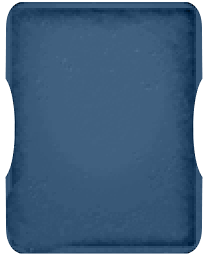
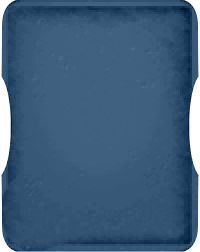
data: fix background images for flush fit on 200x252 card

Changed region(s): [[0.0, 0.0, 1.0, 1.0]]

diff --git a/data/src/card/card.js b/data/src/card/card.js
@@ -3,18 +3,16 @@ import Jimp from 'jimp';
 import { game_dir, TRIBE } from '../constants.js';
 
 export async function create(params) {
-  const card_image = await Jimp.read(card_image_path(params.id));
-
   // start with fresh image with correct dimensions
-  const image = new Jimp(card_image.getWidth(), card_image.getHeight(), 'transparent');
+  const image = new Jimp(width, height, 'transparent');
 
   if (params.background) {
     image.composite(IMAGES.Background[params.background], 0, 0);
   }
 
+  const card_image = await Jimp.read(card_image_path(params.id));
+  card_image.crop(...crop, width, height);
   image.composite(card_image, 0, 0);
-
-  image.crop(...crop, width, height);
 
   if (params.stars) {
     const star_count = params.stars;
